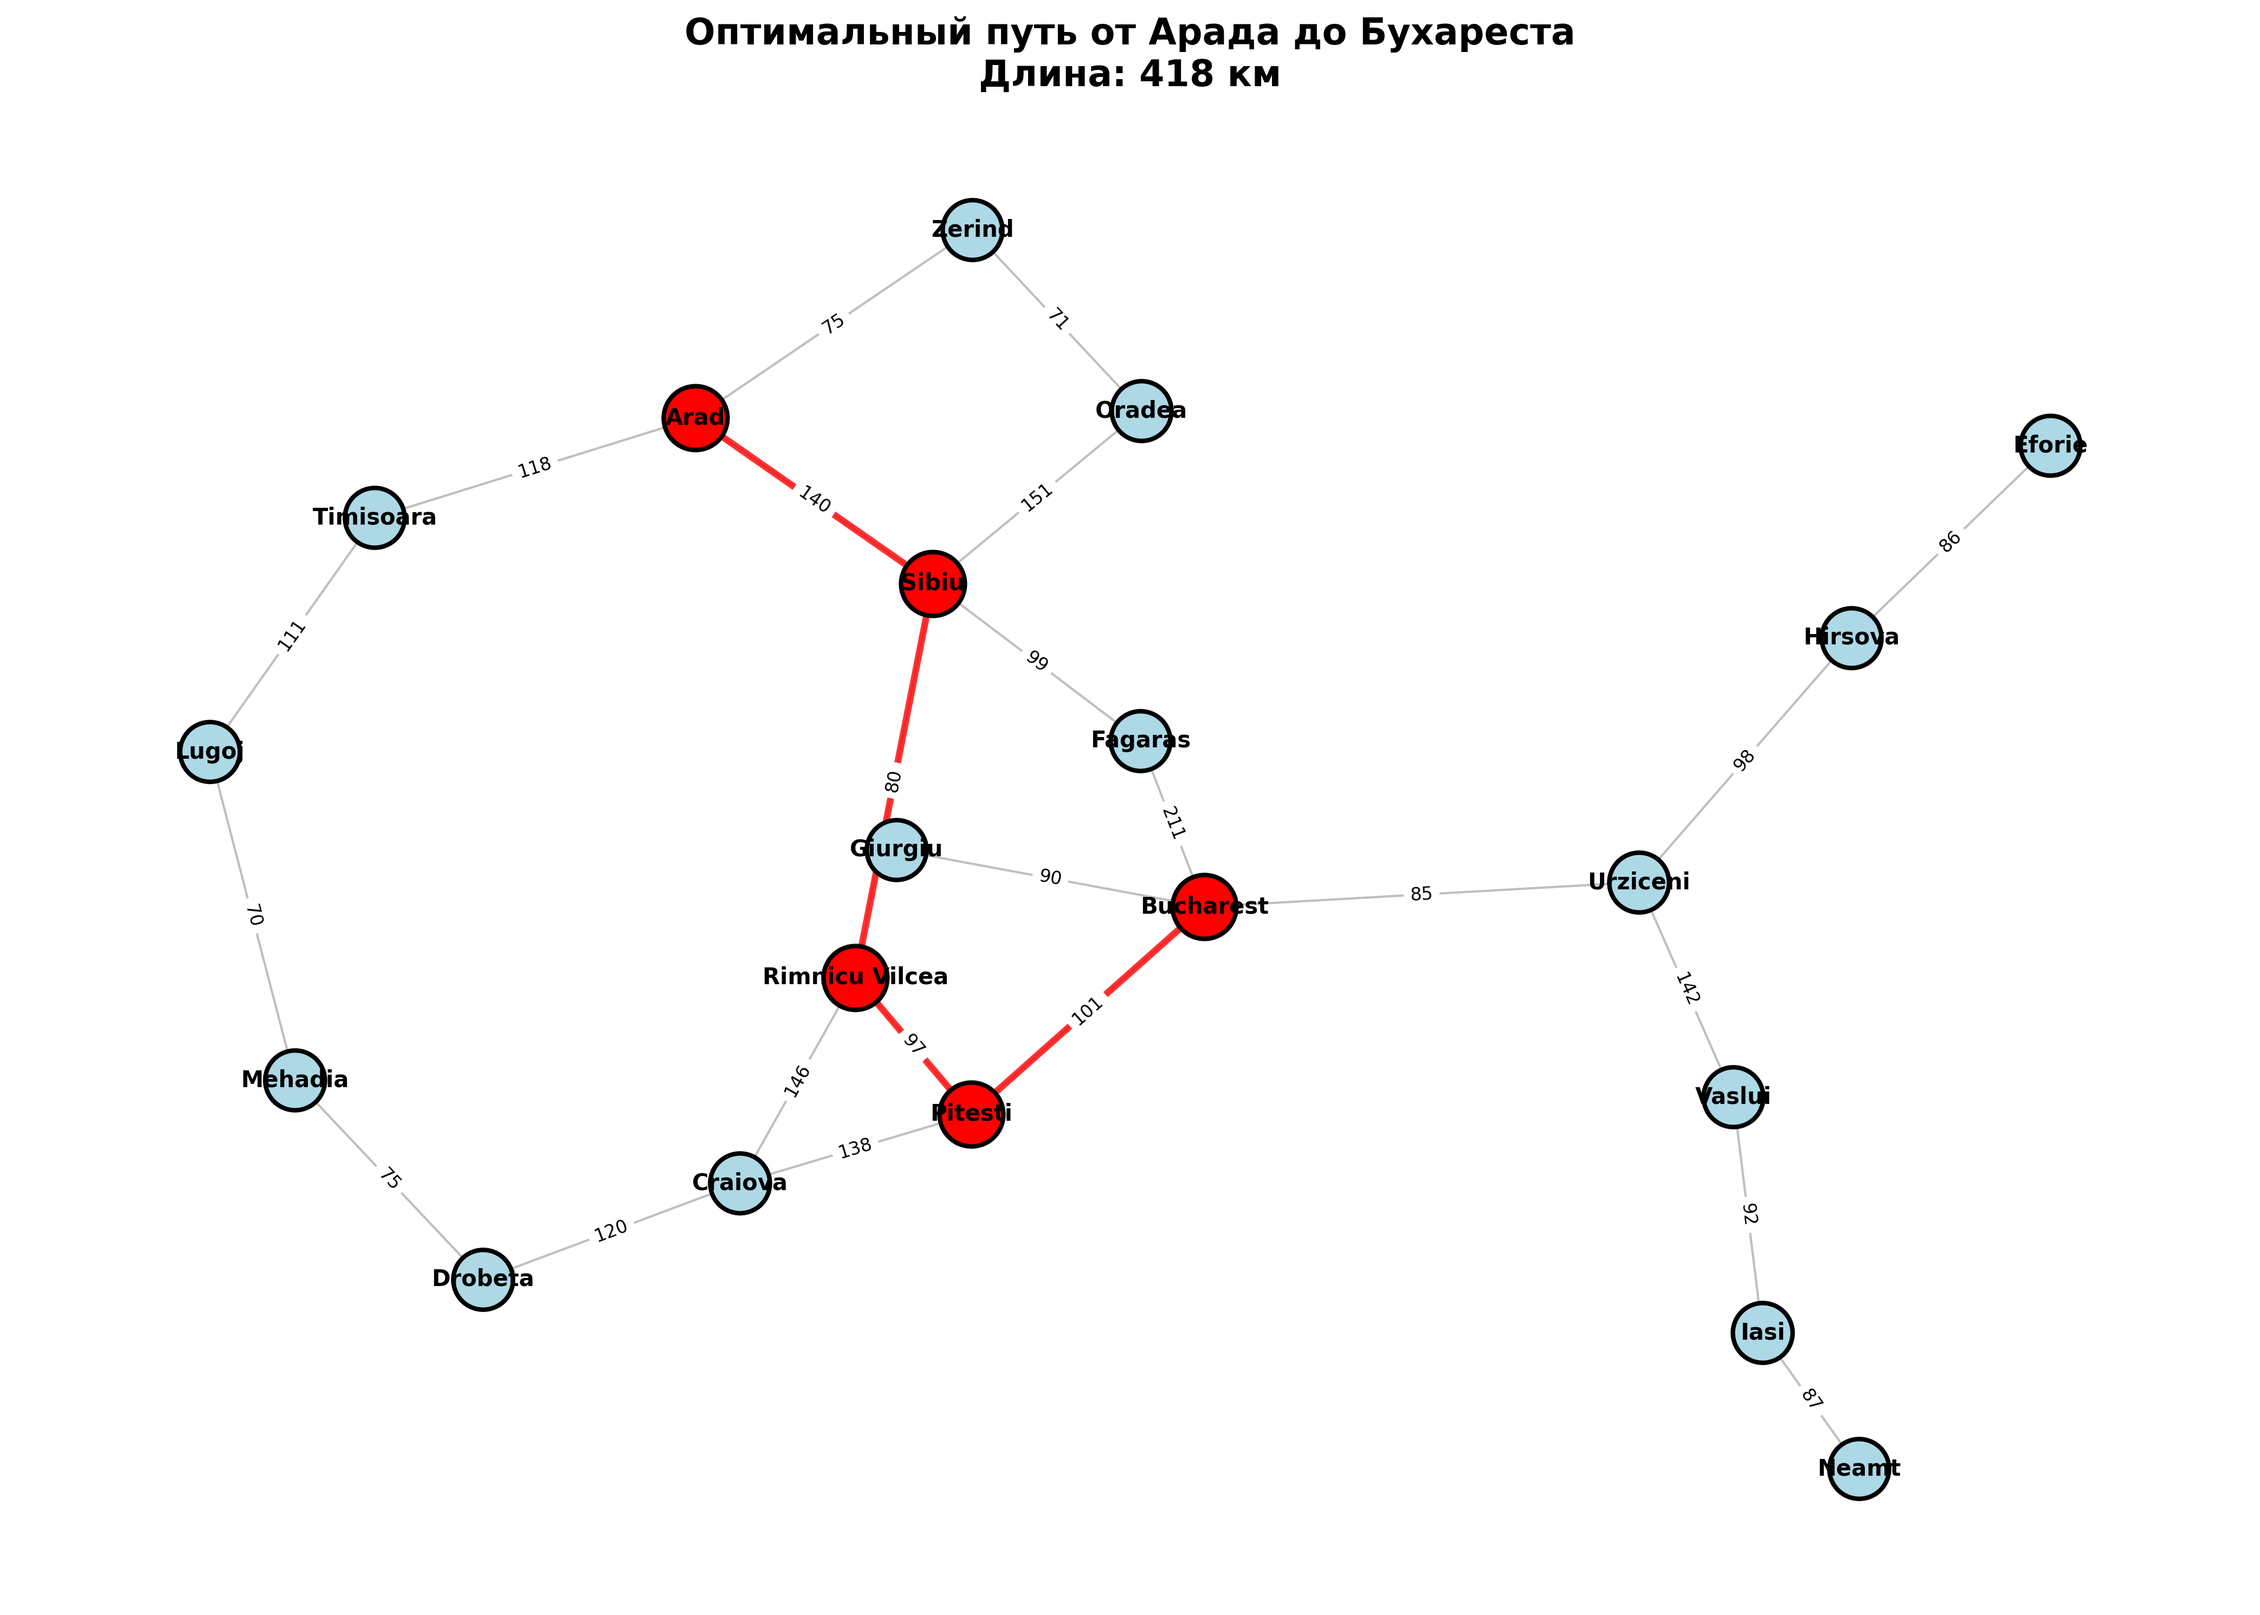
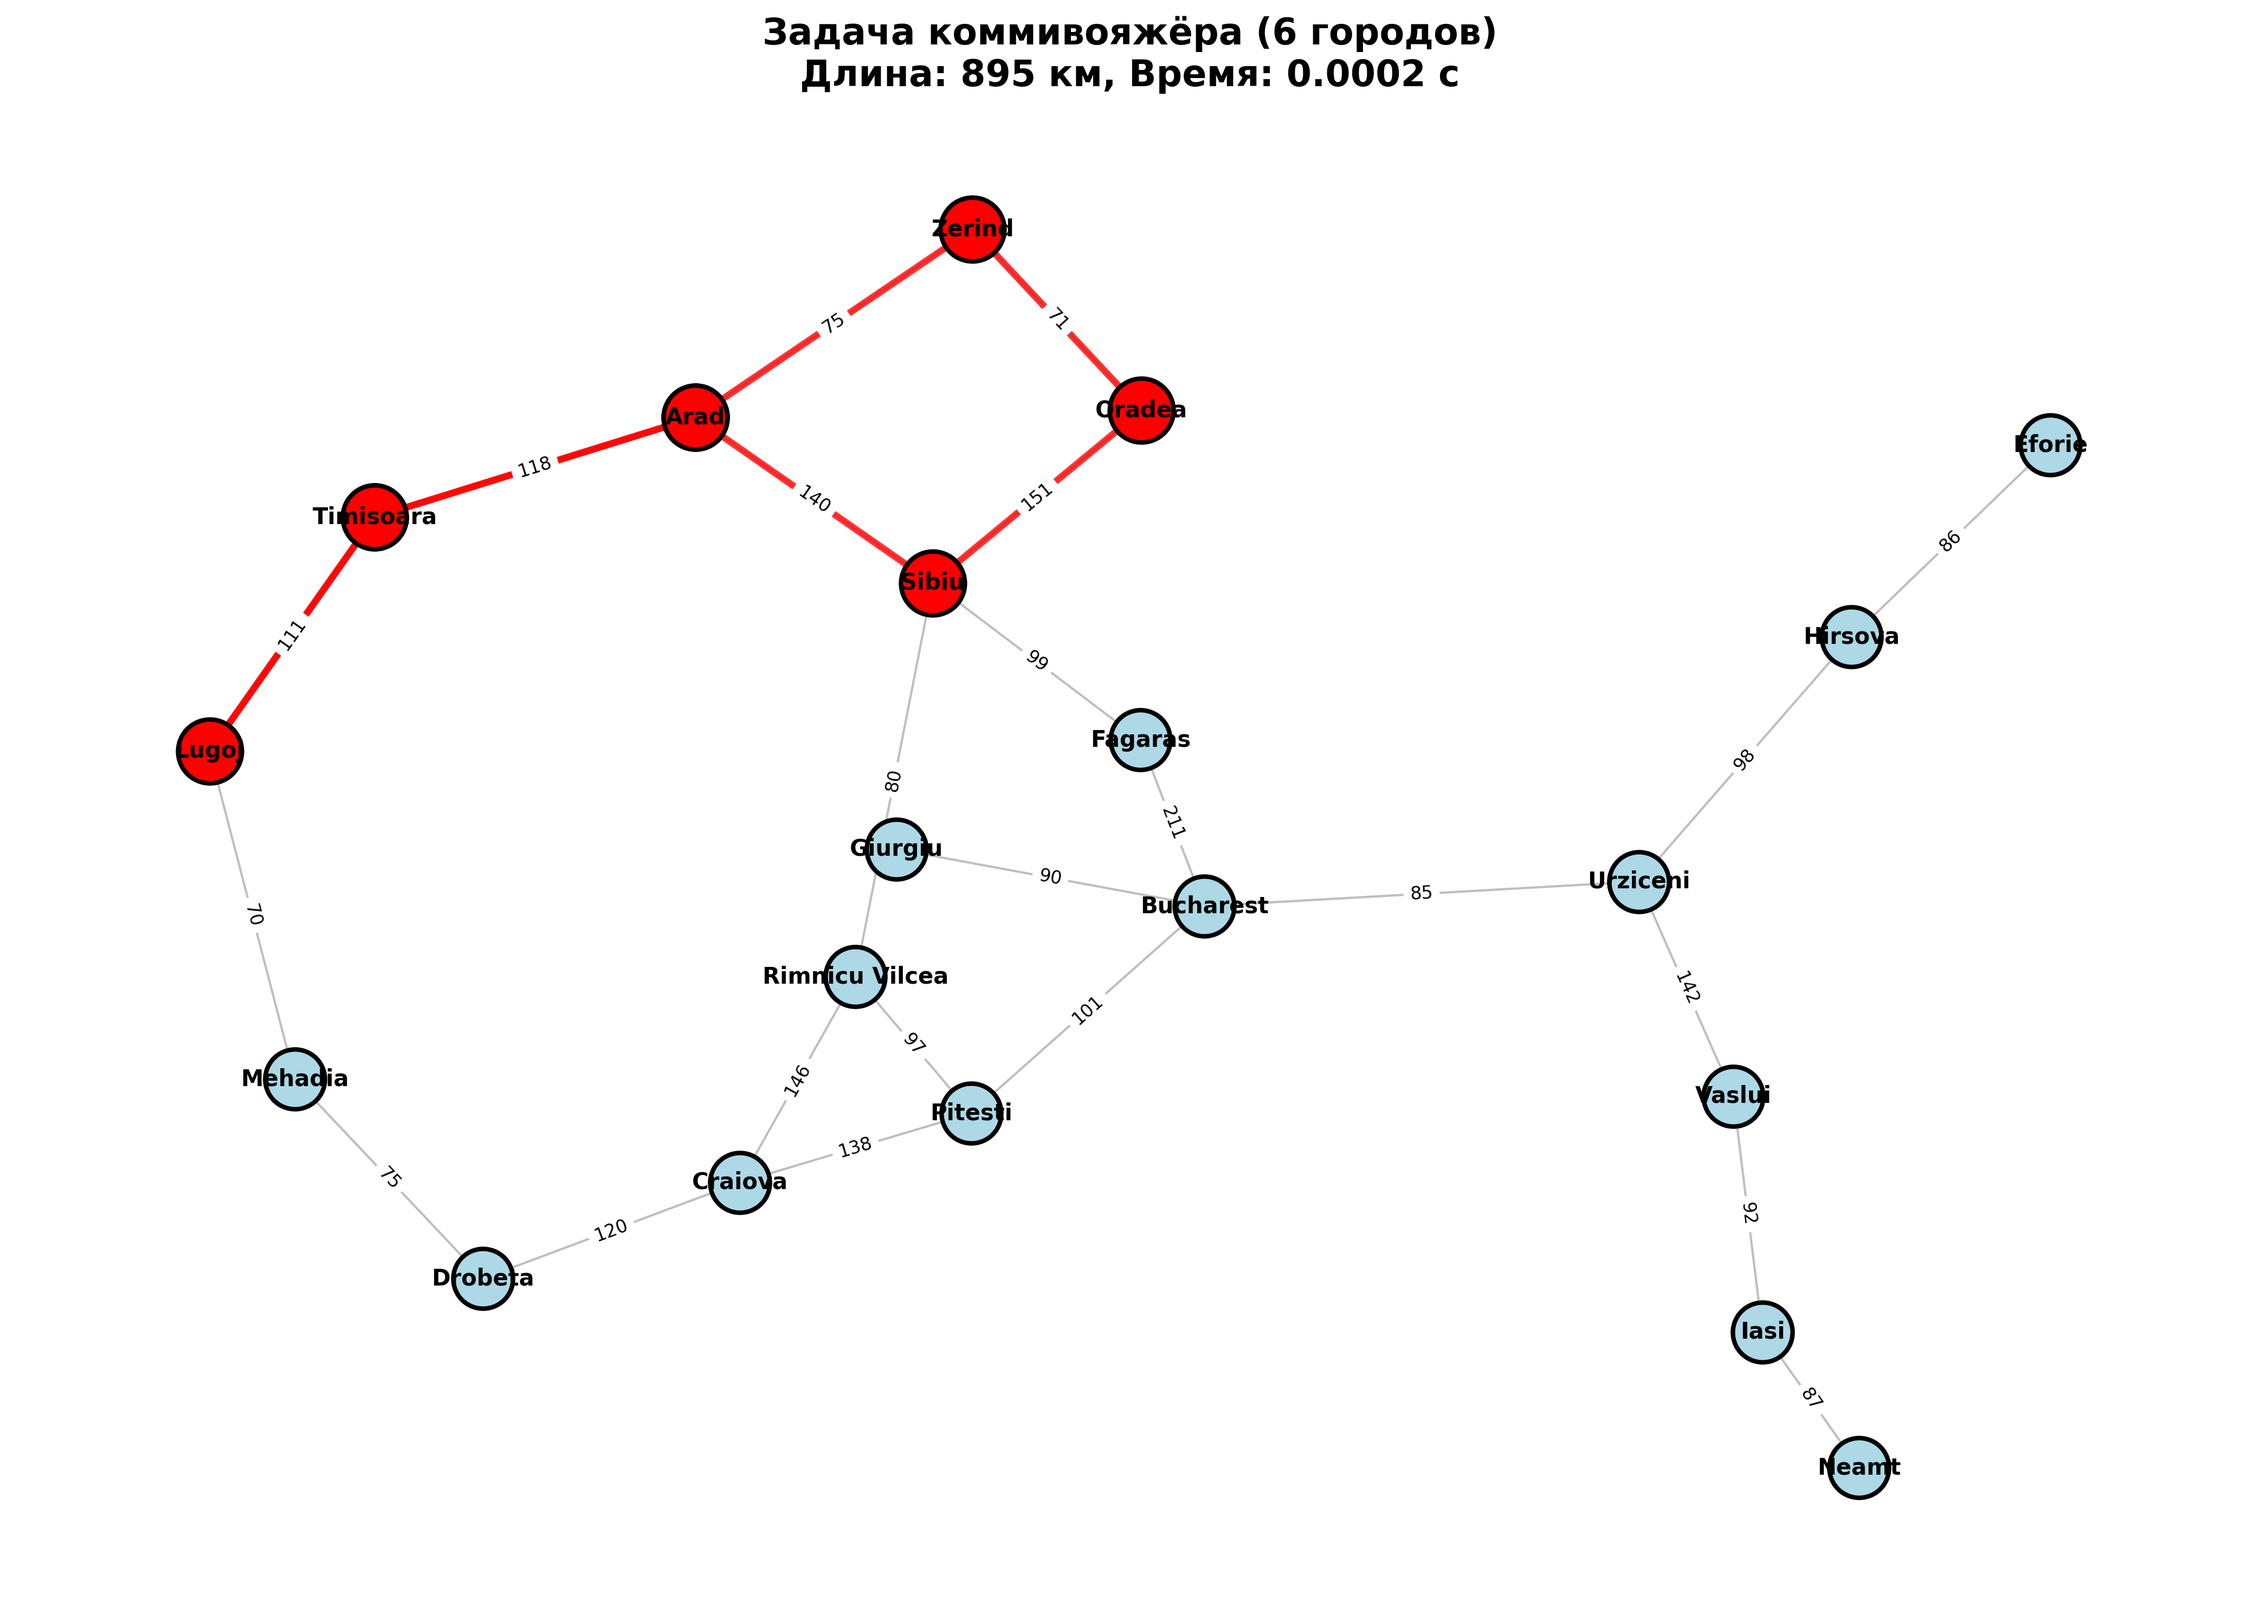
Задача коммивояжера

diff --git a/romania_path.py b/romania_path.py
@@ -3,6 +3,8 @@ import math
 from collections import defaultdict, deque
 import matplotlib.pyplot as plt
 import networkx as nx
+import itertools
+import time
 
 class Problem:
     def __init__(self, initial=None, goal=None, **kwds):
@@ -152,7 +154,6 @@ class GraphProblem(Problem):
     
     def action_cost(self, s, a, s1):
         """Возвращает стоимость действия."""
-        # Ищем стоимость перехода из s в s1
         for city, cost in self.graph[s]:
             if city == s1:
                 return cost
@@ -248,7 +249,6 @@ def visualize_graph(graph_data, path=None, title="Карта дорог Румы
         font_size=8
     )
     
-
     plt.title(title, fontsize=16, fontweight='bold')
     plt.axis('off')
     plt.tight_layout()
@@ -259,8 +259,131 @@ def visualize_graph(graph_data, path=None, title="Карта дорог Румы
     plt.show()
 
 
+def solve_tsp_bruteforce(start_city='Arad', max_cities=6):
+    """
+    Решает задачу коммивояжёра методом полного перебора.
+    
+    Args:
+        start_city: начальный и конечный город
+        max_cities: максимальное количество городов для анализа
+    """
+    print("\n" + "=" * 60)
+    print("РЕШЕНИЕ ЗАДАЧИ КОММИВОЯЖЁРА (TSP)")
+    print("=" * 60)
+    
+    # Создаем граф из данных
+    G = nx.Graph()
+    for city, connections in romania_map.items():
+        for neighbor, weight in connections:
+            G.add_edge(city, neighbor, weight=weight)
+    
+    # Список всех городов
+    all_cities = list(romania_map.keys())
+    
+    # Начинаем с небольшого количества городов
+    for num_cities in range(5, min(max_cities + 1, len(all_cities) + 1)):
+        print(f"\n{'='*40}")
+        print(f"Анализ для {num_cities} городов:")
+        print(f"{'='*40}")
+        
+        # Выбираем города для анализа
+        cities_to_visit = [start_city]
+        # Добавляем другие города (исключая начальный)
+        for city in all_cities:
+            if city != start_city and city in G.nodes:
+                cities_to_visit.append(city)
+            if len(cities_to_visit) >= num_cities:
+                break
+        
+        print(f"Города: {', '.join(cities_to_visit)}")
+        print(f"Количество маршрутов для перебора: {math.factorial(len(cities_to_visit)-1):,}")
+        
+        # Создаем матрицу расстояний
+        n = len(cities_to_visit)
+        distance_matrix = [[0] * n for _ in range(n)]
+        
+        for i in range(n):
+            for j in range(n):
+                if i != j:
+                    try:
+                        distance_matrix[i][j] = nx.shortest_path_length(
+                            G, cities_to_visit[i], cities_to_visit[j], weight='weight'
+                        )
+                    except nx.NetworkXNoPath:
+                        distance_matrix[i][j] = float('inf')
+        
+        # Полный перебор всех возможных маршрутов
+        start_time = time.time()
+        
+        best_route = None
+        best_distance = float('inf')
+        routes_checked = 0
+        
+        # Индекс начального города
+        start_idx = cities_to_visit.index(start_city)
+        other_indices = [i for i in range(n) if i != start_idx]
+        
+        # Перебираем все перестановки
+        for perm in itertools.permutations(other_indices):
+            # Строим маршрут: начальный -> перестановка -> начальный
+            route_indices = [start_idx] + list(perm) + [start_idx]
+            
+            # Считаем длину маршрута
+            total_distance = 0
+            valid_route = True
+            
+            for k in range(len(route_indices) - 1):
+                dist = distance_matrix[route_indices[k]][route_indices[k + 1]]
+                if dist == float('inf'):
+                    valid_route = False
+                    break
+                total_distance += dist
+            
+            routes_checked += 1
+            
+            if valid_route and total_distance < best_distance:
+                best_distance = total_distance
+                best_route = [cities_to_visit[i] for i in route_indices]
+        
+        end_time = time.time()
+        elapsed_time = end_time - start_time
+        
+        print(f"\nРезультаты для {num_cities} городов:")
+        print(f"Время выполнения: {elapsed_time:.6f} секунд")
+        print(f"Проверено маршрутов: {routes_checked:,}")
+        
+        if best_route:
+            # Строим детальный путь для визуализации
+            detailed_path = []
+            for i in range(len(best_route) - 1):
+                shortest_path = nx.shortest_path(G, best_route[i], best_route[i + 1], weight='weight')
+                detailed_path.extend(shortest_path[:-1])
+            
+            detailed_path.append(start_city)
+            
+            print(f"Оптимальный маршрут: {' → '.join(best_route)}")
+            print(f"Общая длина: {best_distance} км")
+            
+            visualize_graph(
+                romania_map,
+                path=detailed_path,
+                title=f"Задача коммивояжёра ({num_cities} городов)\n"
+                      f"Длина: {best_distance} км, Время: {elapsed_time:.4f} с"
+            )
+            
+            # Если время слишком большое, останавливаемся
+            if elapsed_time > 10:
+                print("\n⚠ Время выполнения слишком велико. Останавливаем анализ.")
+                print("Для большего количества городов нужны более эффективные алгоритмы.")
+                break
+        else:
+            print("Нет допустимого маршрута через все выбранные города.")
+    
+    return best_route, best_distance
+
+
 def main():
-    """Основная функция для поиска пути от Арада до Бухареста."""
+    """Основная функция для поиска пути от Арада до Бухареста и решения TSP."""
     print("Поиск оптимального пути от Арада до Бухареста")
     print("=" * 50)
     
@@ -310,12 +433,61 @@ def main():
         title = f"Оптимальный путь от Арада до Бухареста\nДлина: {total_cost} км"
         visualize_graph(romania_map, path=path, title=title)
     
-    # Статистика графа
     print("\n" + "=" * 50)
     print("Статистика графа:")
     print(f"Всего городов: {len(romania_map)}")
     total_roads = sum(len(connections) for connections in romania_map.values())
     print(f"Всего дорог: {total_roads // 2} (неориентированные)")
+    
+    # Решение задачи коммивояжёра
+    print("\n" + "=" * 60)
+    print("ПЕРЕХОДИМ К ЗАДАЧЕ КОММИВОЯЖЁРА")
+    print("=" * 60)
+    
+    # Объяснение задачи коммивояжёра
+    print("\n ЗАДАЧА КОММИВОЯЖЁРА (TSP):")
+    print("- Нужно найти кратчайший маршрут, проходящий через все города")
+    print("- Начинаем и заканчиваем в одном городе")
+    print("- Каждый город посещается ровно один раз")
+    print(f"- Для N городов существует (N-1)! возможных маршрутов")
+    print(f"- Для 5 городов: 4! = 24 маршрута (быстро)")
+    print(f"- Для 10 городов: 9! = 362,880 маршрутов (медленно)")
+    print(f"- Для 20 городов: 19! ≈ 1.2×10¹⁷ маршрутов (невозможно)")
+    
+    print("\n ОЦЕНКА ВРЕМЕНИ ВЫПОЛНЕНИЯ:")
+    for n in range(5, 11):
+        permutations = math.factorial(n - 1)
+        estimated_time = permutations * 0.00001
+        
+        time_str = f"{estimated_time:.2f} сек"
+        if estimated_time > 60:
+            estimated_time /= 60
+            time_str = f"{estimated_time:.2f} мин"
+            if estimated_time > 60:
+                estimated_time /= 60
+                time_str = f"{estimated_time:.2f} час"
+                if estimated_time > 24:
+                    estimated_time /= 24
+                    time_str = f"{estimated_time:.2f} дней"
+        
+        print(f"  {n} городов: {permutations:,} маршрутов → ~{time_str}")
+    
+    print("\n" + "=" * 50)
+    try:
+        max_cities = int(input("Введите максимальное количество городов для анализа (5-7 рекомендовано): ") or "6")
+        max_cities = max(5, min(max_cities, 8))  # Ограничиваем от 5 до 8
+    except:
+        max_cities = 6
+    
+    # Запускаем решение TSP
+    tsp_route, tsp_distance = solve_tsp_bruteforce(start_city='Arad', max_cities=max_cities)
+    
+    print("\n" + "=" * 60)
+    print("ВЫВОДЫ ПО ЗАДАЧЕ КОММИВОЯЖЁРА:")
+    print("=" * 60)
+    print("1. Полный перебор работает только для малого N (5-7 городов)")
+    print("2. Время растет факториально: O((N-1)!)")
+    print("3. Для 20 городов нужны приближенные алгоритмы:")
     
     return solution
 
